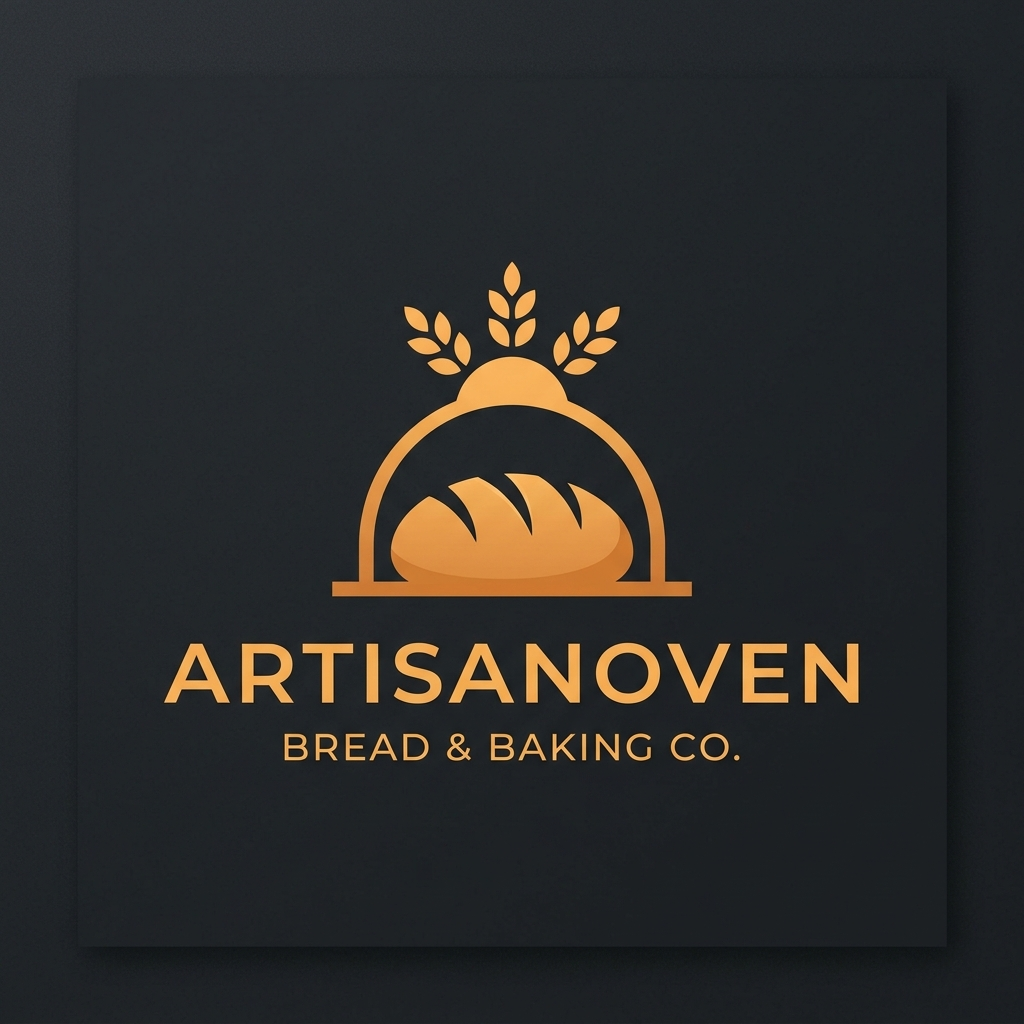
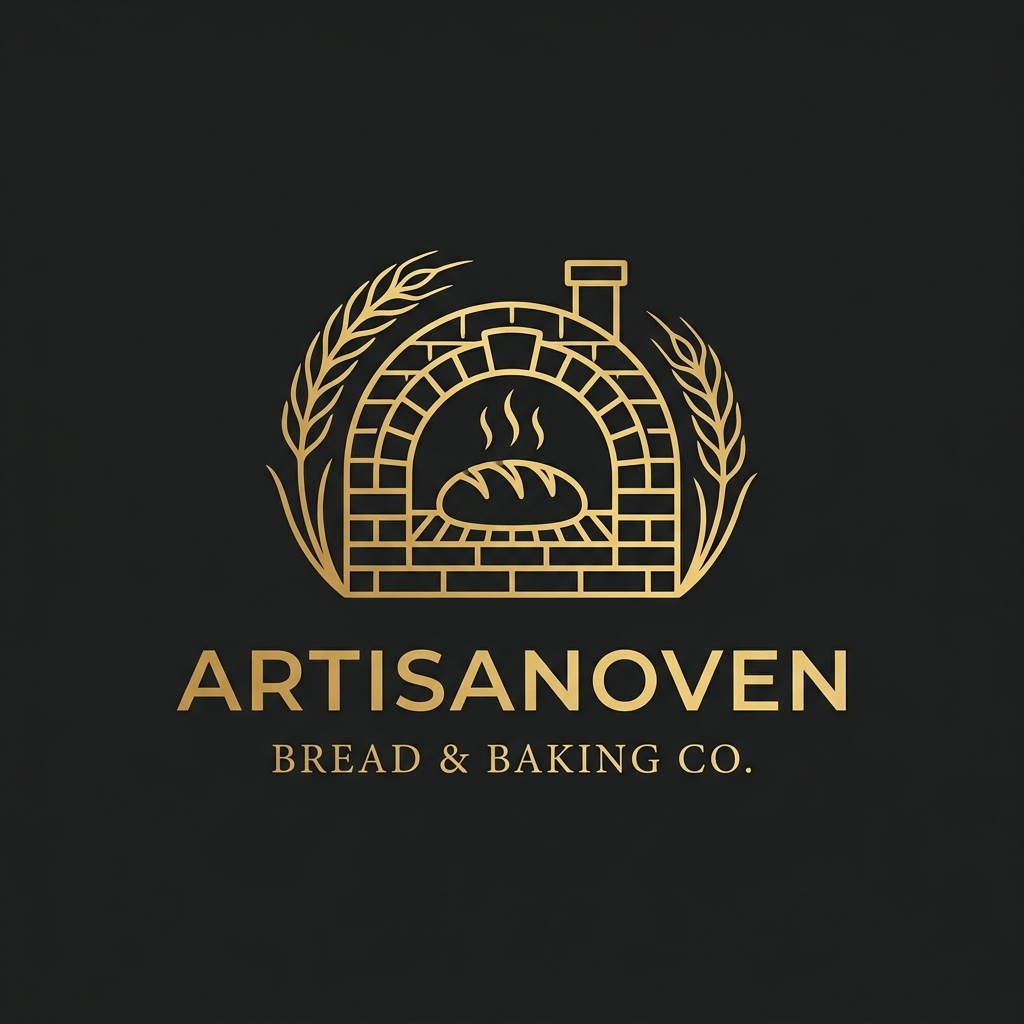
feat: implement site-wide dynamic layout injection and UI theme management system

Changed region(s): [[0.25, 0.25, 0.75, 0.5938], [0.1562, 0.625, 0.8438, 0.7812], [0.0, 0.0, 0.3125, 0.1875]]

diff --git a/assets/css/header-footer.css b/assets/css/header-footer.css
@@ -773,7 +773,7 @@
   }
 
   .brand img {
-    height: 52px !important;
+    height: 64px !important;
   }
 }
 
@@ -783,7 +783,7 @@
   }
 
   .brand img {
-    height: 44px !important;
+    height: 58px !important;
   }
 
   .header-main {
@@ -799,18 +799,38 @@
   }
 
   .rtl-toggle {
-    padding: 0.25rem 0.4rem;
-    font-size: 0.76rem;
+    width: auto !important;
+    min-width: 44px !important;
+    height: 34px !important;
+    border-radius: 17px !important;
+    padding: 0 0.55rem !important;
+    display: inline-flex !important;
+    align-items: center !important;
+    justify-content: center !important;
+    font-size: 0.74rem !important;
   }
 
-  .theme-toggle {
-    width: 34px;
-    height: 34px;
+  .theme-toggle,
+  .notification-toggle {
+    width: 34px !important;
+    height: 34px !important;
+    border-radius: 50% !important;
+    display: inline-flex !important;
+    align-items: center !important;
+    justify-content: center !important;
   }
 
-  .theme-toggle svg {
+  .theme-toggle svg,
+  .notification-toggle svg {
     width: 15px;
     height: 15px;
+  }
+
+  .notification-badge {
+    top: 8px;
+    right: 8px;
+    width: 6px;
+    height: 6px;
   }
 
   .login-btn {

diff --git a/assets/css/components.css b/assets/css/components.css
@@ -1535,6 +1535,7 @@ textarea.form-control {
   inset-inline-end: 1.5rem;
   display: flex;
   gap: 0.5rem;
+  align-items: center;
   z-index: 10;
 }
 
@@ -1596,7 +1597,7 @@ textarea.form-control {
 
 /* Auth card logo display fix & dark theme contrast plate */
 .auth-card .auth-logo img {
-  height: 80px; /* Simple and bigger! */
+  height: 96px; /* Simple and bigger! */
   width: auto;
   display: block;
   object-fit: contain;
@@ -1739,4 +1740,25 @@ textarea.form-control {
 /* Custom override to make product image container in Fresh Arrivals slightly smaller */
 #freshArrivalsTrack .product-card .card-img-zoom {
   aspect-ratio: 5/4;
+}
+
+/* Mobile responsive overrides for Auth card layout */
+@media (max-width: 480px) {
+  .auth-shell {
+    flex-direction: column;
+    justify-content: flex-start;
+    padding-top: 5.5rem;
+    padding-bottom: 2rem;
+  }
+
+  .auth-utility {
+    top: 1rem;
+    inset-inline-end: 1rem;
+  }
+}
+
+@media (max-width: 360px) {
+  .auth-card {
+    padding: 1.25rem 1rem;
+  }
 }

diff --git a/dashboard/assets/css/dashboard-responsive.css b/dashboard/assets/css/dashboard-responsive.css
@@ -43,12 +43,22 @@
 .dash-main table{ width:100%; }
 .dash-main img{ max-width:100%; }
 
-/* Keep RTL toggle visible on mobile dashboard header */
-@media (max-width: 1023px) {
+/* Keep header utility icons visible on mobile & tablet dashboard headers */
+@media (max-width: 1024px) {
   .dashboard-header-wrap .header-utility {
     display: flex !important;
   }
   .dashboard-header-wrap .rtl-toggle {
     display: flex !important;
+  }
+}
+
+/* Adjust dashboard header sizing on extra-small mobile viewports to prevent overflow at 320px */
+@media (max-width: 480px) {
+  .dashboard-header-wrap .container {
+    padding: 0 0.5rem !important;
+  }
+  .dashboard-header-wrap .header-utility {
+    gap: 0.25rem !important;
   }
 }

diff --git a/assets/css/responsive.css b/assets/css/responsive.css
@@ -519,6 +519,16 @@ code {
   gap: 1rem;
 }
 
+.seasonal-card {
+  max-width: 800px;
+  margin: 0 auto;
+  background: var(--surface-card);
+  padding: 2rem;
+  border-radius: var(--radius-lg);
+  border: 1px solid var(--color-border);
+  box-shadow: var(--shadow-md);
+}
+
 @media (max-width: 768px) {
   .contact-grid,
   .shopping-list-grid {
@@ -528,6 +538,9 @@ code {
 }
 
 @media (max-width: 576px) {
+  .seasonal-card {
+    padding: 1.25rem 1rem;
+  }
   .seasonal-grid {
     grid-template-columns: 1fr;
     gap: 1rem;

diff --git a/assets/css/style.css b/assets/css/style.css
@@ -61,13 +61,19 @@
   --transition-slow: 0.45s cubic-bezier(.22, .61, .36, 1);
 
   /* ---- Layout ---- */
-  --header-height: 76px;
+  --header-height: 88px;
   --container-max: 1320px;
 }
 
 @media (max-width: 768px) {
   :root {
-    --header-height: 64px;
+    --header-height: 76px;
+  }
+}
+
+@media (max-width: 480px) {
+  :root {
+    --header-height: 68px;
   }
 }
 

diff --git a/assets/js/main.js b/assets/js/main.js
@@ -68,7 +68,7 @@
   <div class="header-main-wrap">
     <div class="container header-main">
       <a href="${ROOT}index.html" class="brand">
-        <img src="${ROOT}assets/images/logo.png" alt="FreshlyMarket Logo" style="height: 64px; object-fit: contain;">
+        <img src="${ROOT}assets/images/logo.png" alt="FreshlyMarket Logo" style="height: 80px; object-fit: contain;">
       </a>
 
       <ul class="header-nav">
@@ -115,7 +115,7 @@
   <aside class="mobile-drawer" id="mobileDrawer">
     <div class="mobile-drawer-head">
       <a href="${ROOT}index.html" class="brand" style="font-size:1.1rem;">
-        <img src="${ROOT}assets/images/logo.png" alt="FreshlyMarket Logo" style="height: 48px; object-fit: contain;">
+        <img src="${ROOT}assets/images/logo.png" alt="FreshlyMarket Logo" style="height: 60px; object-fit: contain;">
       </a>
       <button class="mobile-drawer-close" id="mobileDrawerClose" aria-label="Close menu">
         <svg viewBox="0 0 24 24" fill="none" stroke="currentColor" stroke-width="2"><path d="M18 6L6 18M6 6l12 12"/></svg>

diff --git a/dashboard/assets/js/main.js b/dashboard/assets/js/main.js
@@ -59,7 +59,7 @@
       </button>
 
       <a href="${ROOT}index.html" class="brand" title="Return to Storefront">
-        <img src="${ROOT}assets/images/logo.png" alt="FreshlyMarket Logo" style="height: 64px; object-fit: contain;">
+        <img src="${ROOT}assets/images/logo.png" alt="FreshlyMarket Logo" style="height: 80px; object-fit: contain;">
       </a>
 
       <div class="header-actions">
@@ -89,7 +89,7 @@
   <aside class="mobile-drawer" id="mobileDrawer">
     <div class="mobile-drawer-head">
       <a href="${ROOT}index.html" class="brand" style="font-size:1.1rem;">
-        <img src="${ROOT}assets/images/logo.png" alt="FreshlyMarket Logo" style="height: 48px; object-fit: contain;">
+        <img src="${ROOT}assets/images/logo.png" alt="FreshlyMarket Logo" style="height: 60px; object-fit: contain;">
       </a>
       <button class="mobile-drawer-close" id="mobileDrawerClose" aria-label="Close menu">
         <svg viewBox="0 0 24 24" fill="none" stroke="currentColor" stroke-width="2"><path d="M18 6L6 18M6 6l12 12"/></svg>

diff --git a/departments.html b/departments.html
@@ -108,7 +108,7 @@
         <p>Explore what fresh ingredients and specialty selections are in their absolute prime right now.</p>
       </div>
 
-      <div class="reveal" style="max-width: 800px; margin: 0 auto; background: var(--surface-card); padding: 2rem; border-radius: var(--radius-lg); border: 1px solid var(--color-border); box-shadow: var(--shadow-md);">
+      <div class="seasonal-card reveal">
         <div class="seasonal-filter-container">
           <button type="button" class="btn btn-outline seasonal-btn active" onclick="showSeason(this, 'spring')" style="min-width: 120px; font-weight:600;">Spring</button>
           <button type="button" class="btn btn-outline seasonal-btn" onclick="showSeason(this, 'summer')" style="min-width: 120px; font-weight:600;">Summer</button>